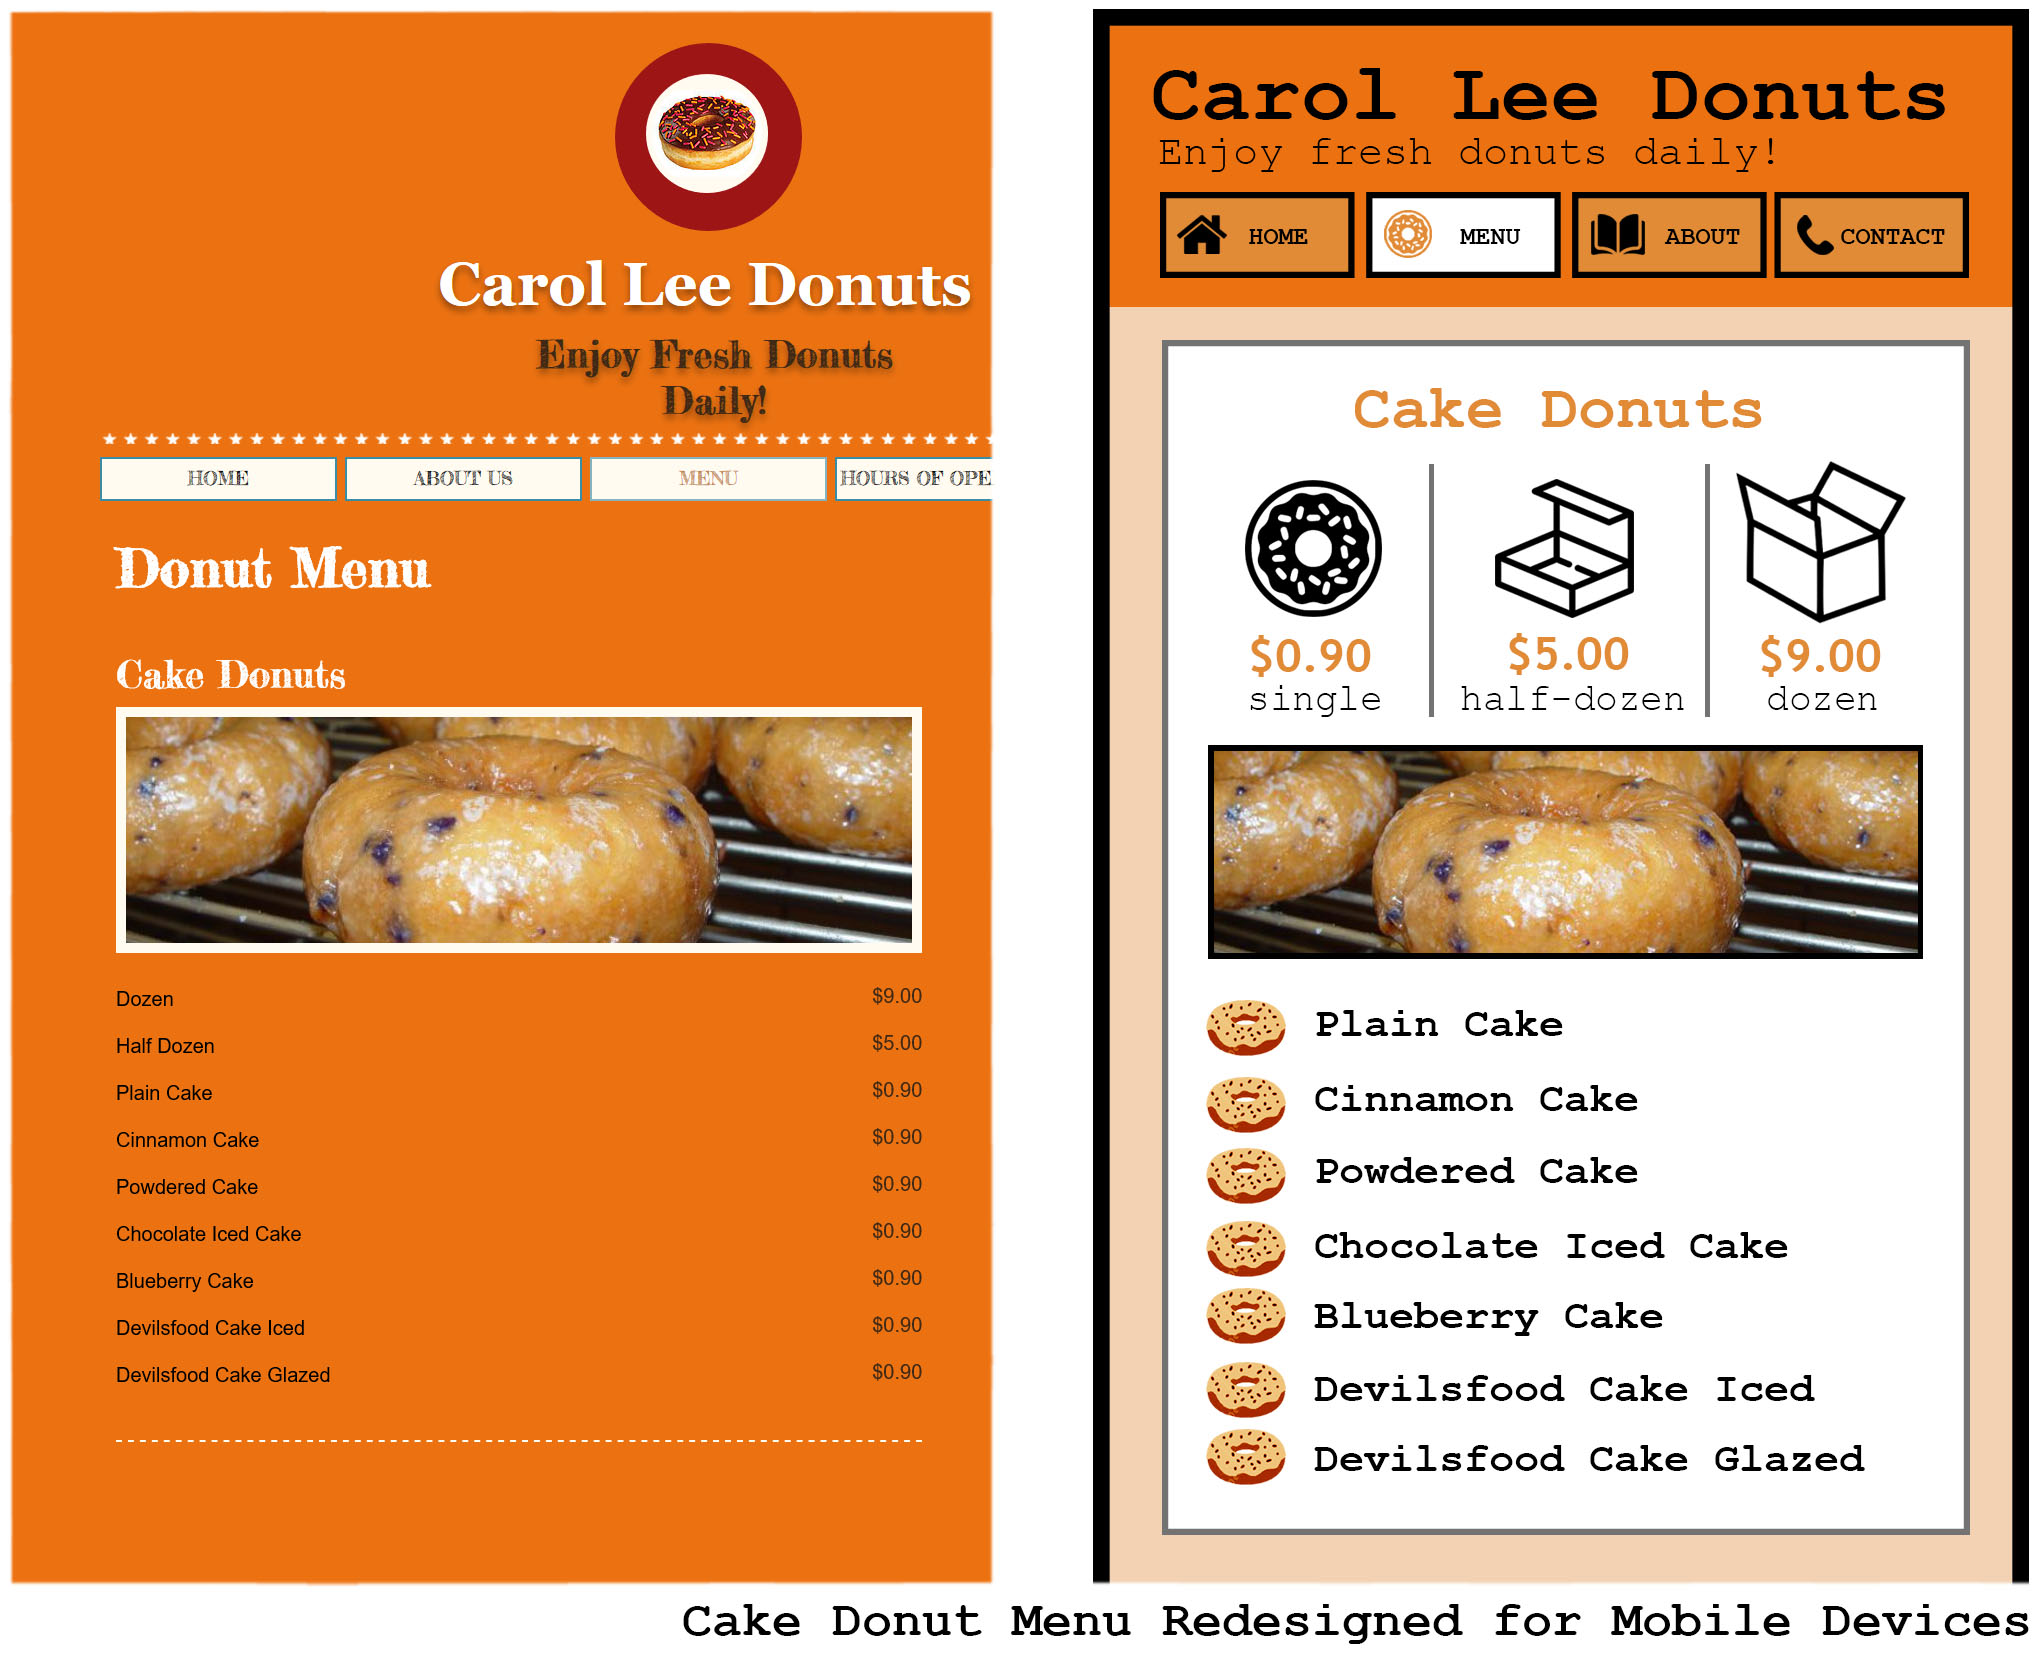
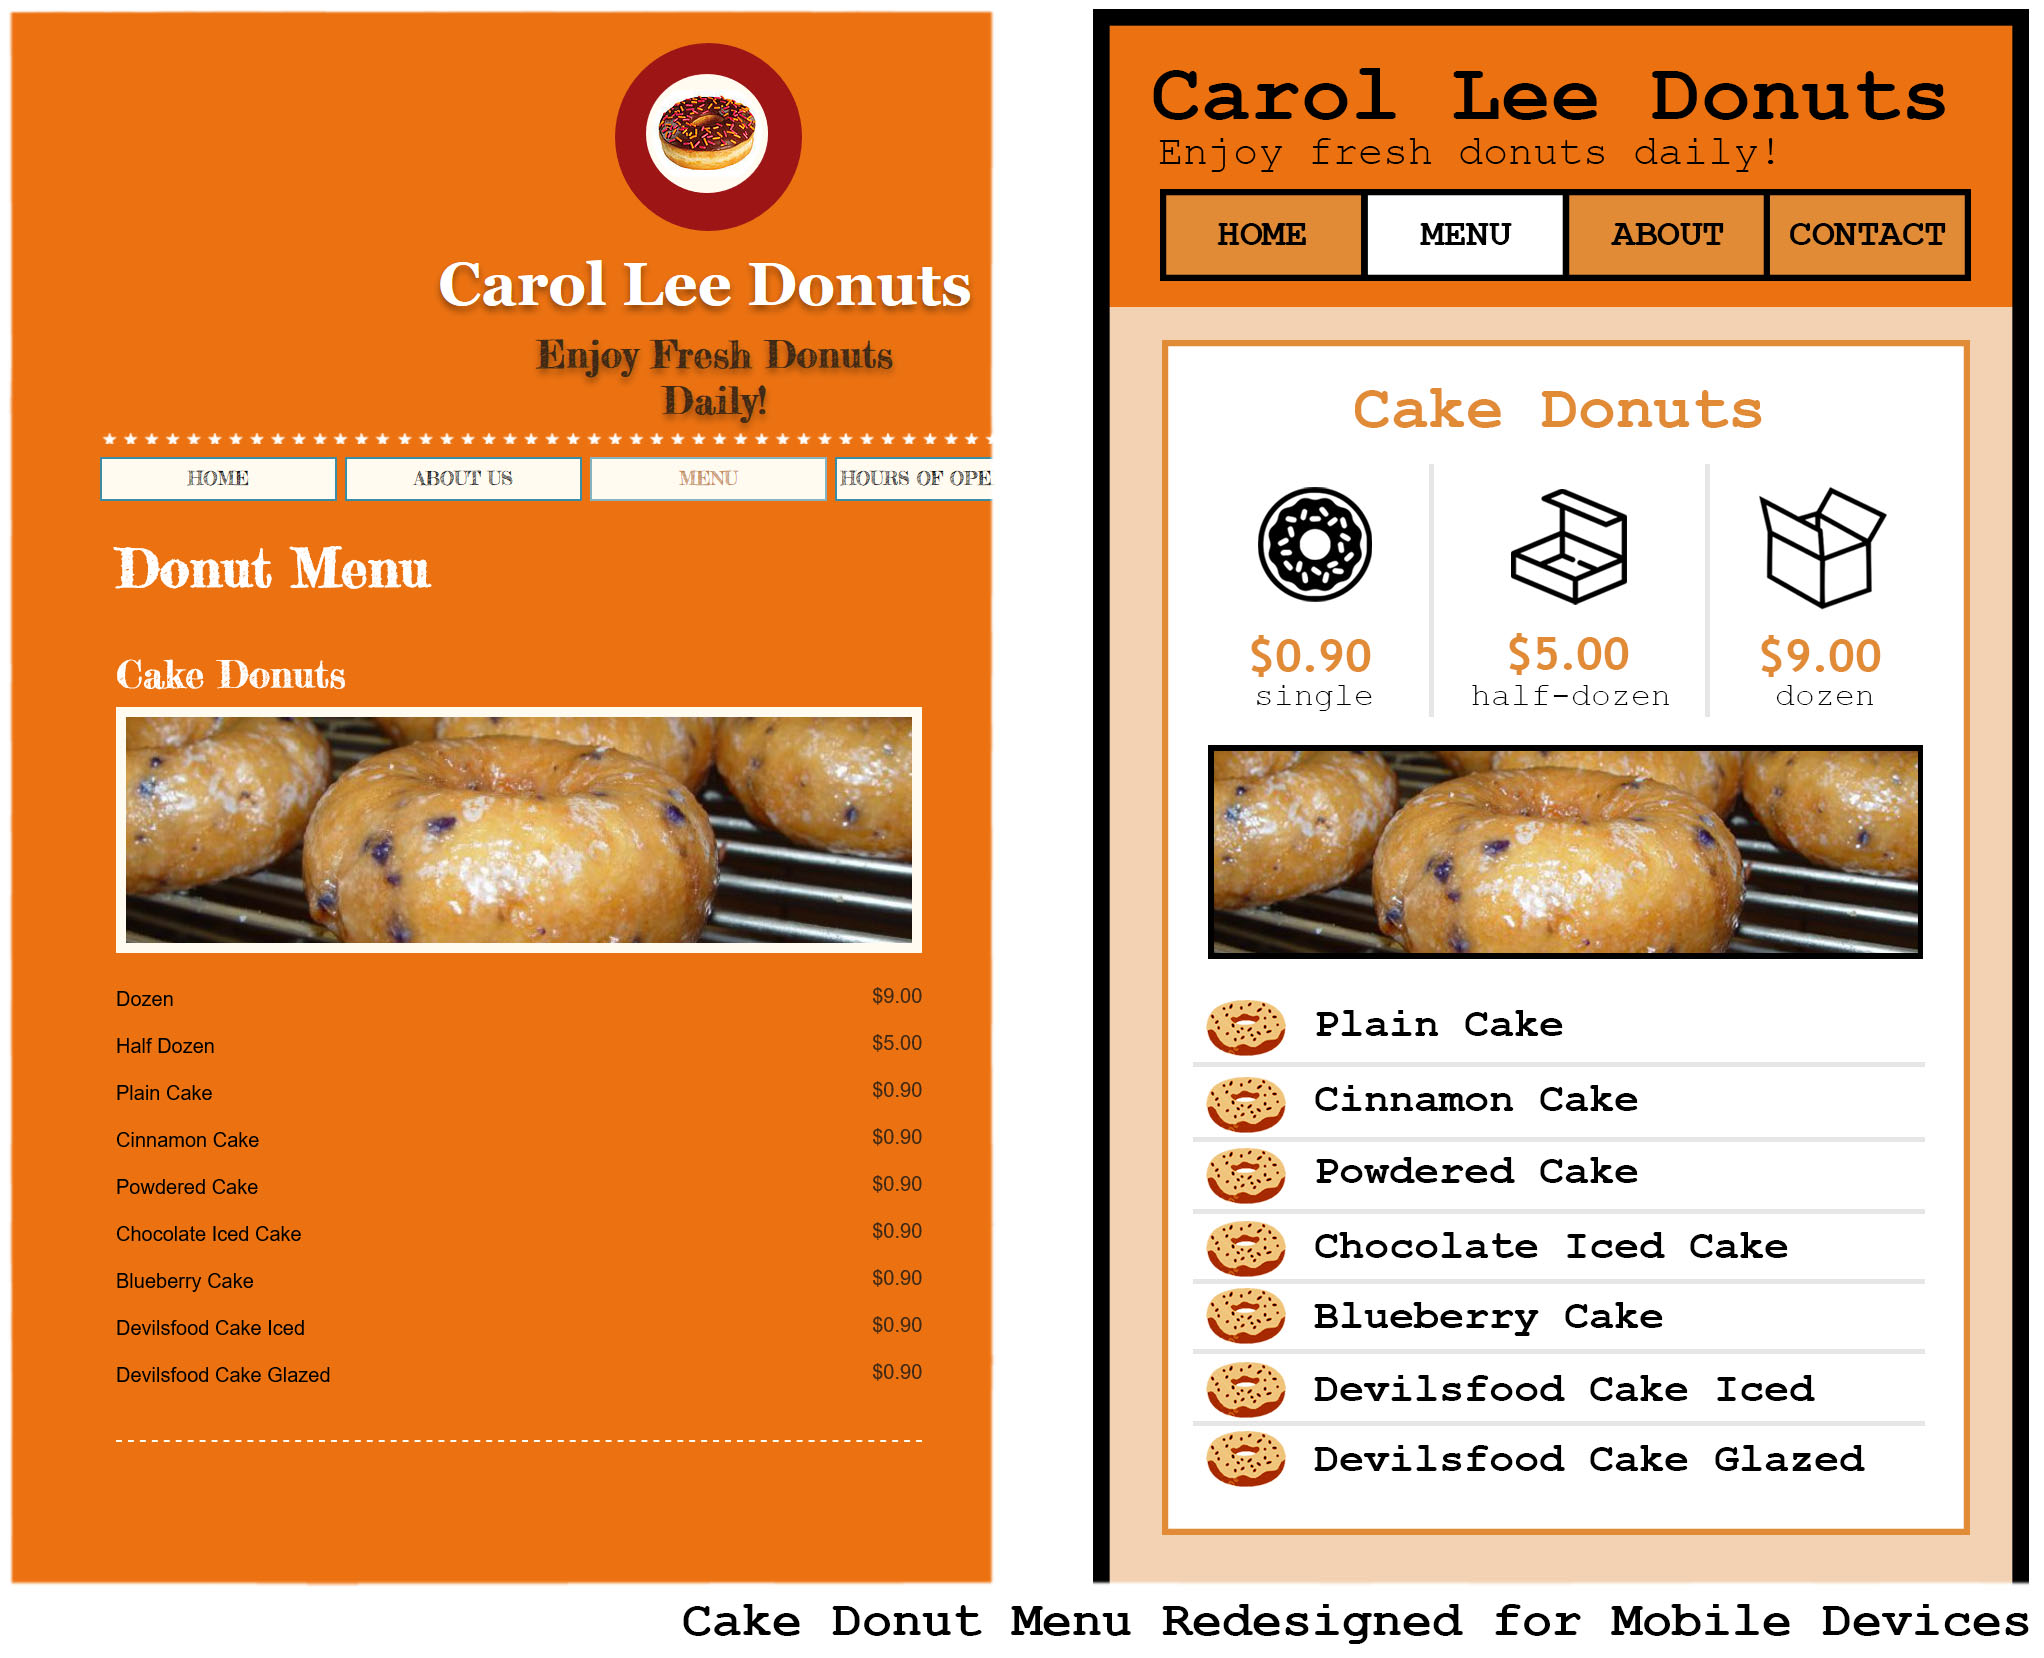
second major donut commit

diff --git a/donuts.html b/donuts.html
@@ -26,9 +26,9 @@
 		<p style="text-align: center">A personal project by Brandon Falcone</p>
 		
 		<div class="Snippet_Container">
-			<img src="images/teaser_1.png"; class="Snippet"></img>
-			<img src="images/teaser_2.png"; class="Snippet"></img>
-			<img src="images/teaser_3.png"; class="Snippet"></img>
+			<img src="images/donut_preview_1.png"; class="Snippet"></img>
+			<img src="images/donut_preview_2.png"; class="Snippet"></img>
+			<img src="images/donut_preview_3.png"; class="Snippet"></img>
 		</div>
 		
 		<h2 style="text-align: center">Table of Contents</h2>
@@ -81,11 +81,19 @@
 	</div>
 	
 	<div class="Section" style="background-color: white">
-		<h1>Design</h1>
+		<h1>Prototype</h1>
 	
 		<h2>Wireframe</h2>
 	
 		<img src="images/menu_redesign.jpg"; class="Large_Image"></img>
+		
+		<h2>Header Bar Iterations</h2>
+		
+		<p>In the prototyping phase, it was revealed that the appearance of the website header could be improved on.
+		I continued iterating the design until I created one that would provide the best clarity to the user.</p>
+		
+		<img src="images/header_iteration.jpg"; class="Large_Image"></img>
+
 		
 		<h2>Responsive Design</h2>
 		

diff --git a/Portfolio.html b/Portfolio.html
@@ -25,7 +25,7 @@
 	<div class="Body">
 		<div class="Project">
 			<p class="Title">Donut Website Redesign</p>
-			<img class="Image" src="images/coming_soon.png"></img>
+			<img class="Image" src="images/donut_preview.png"></img>
 			<div class="Details">
 				<p class="Detail_Title">Features:</p>	
 				<p class="Detail_Item">Problem Identification</p>
@@ -34,7 +34,7 @@
 			</div>
 			
 		</div>
-		<div class="View_Project"; onclick="">
+		<div class="View_Project"; onclick="window.location='donuts.html'">
 			<img src="images/arrow.png"; class="Arrow"></img>
 
 		</div>
